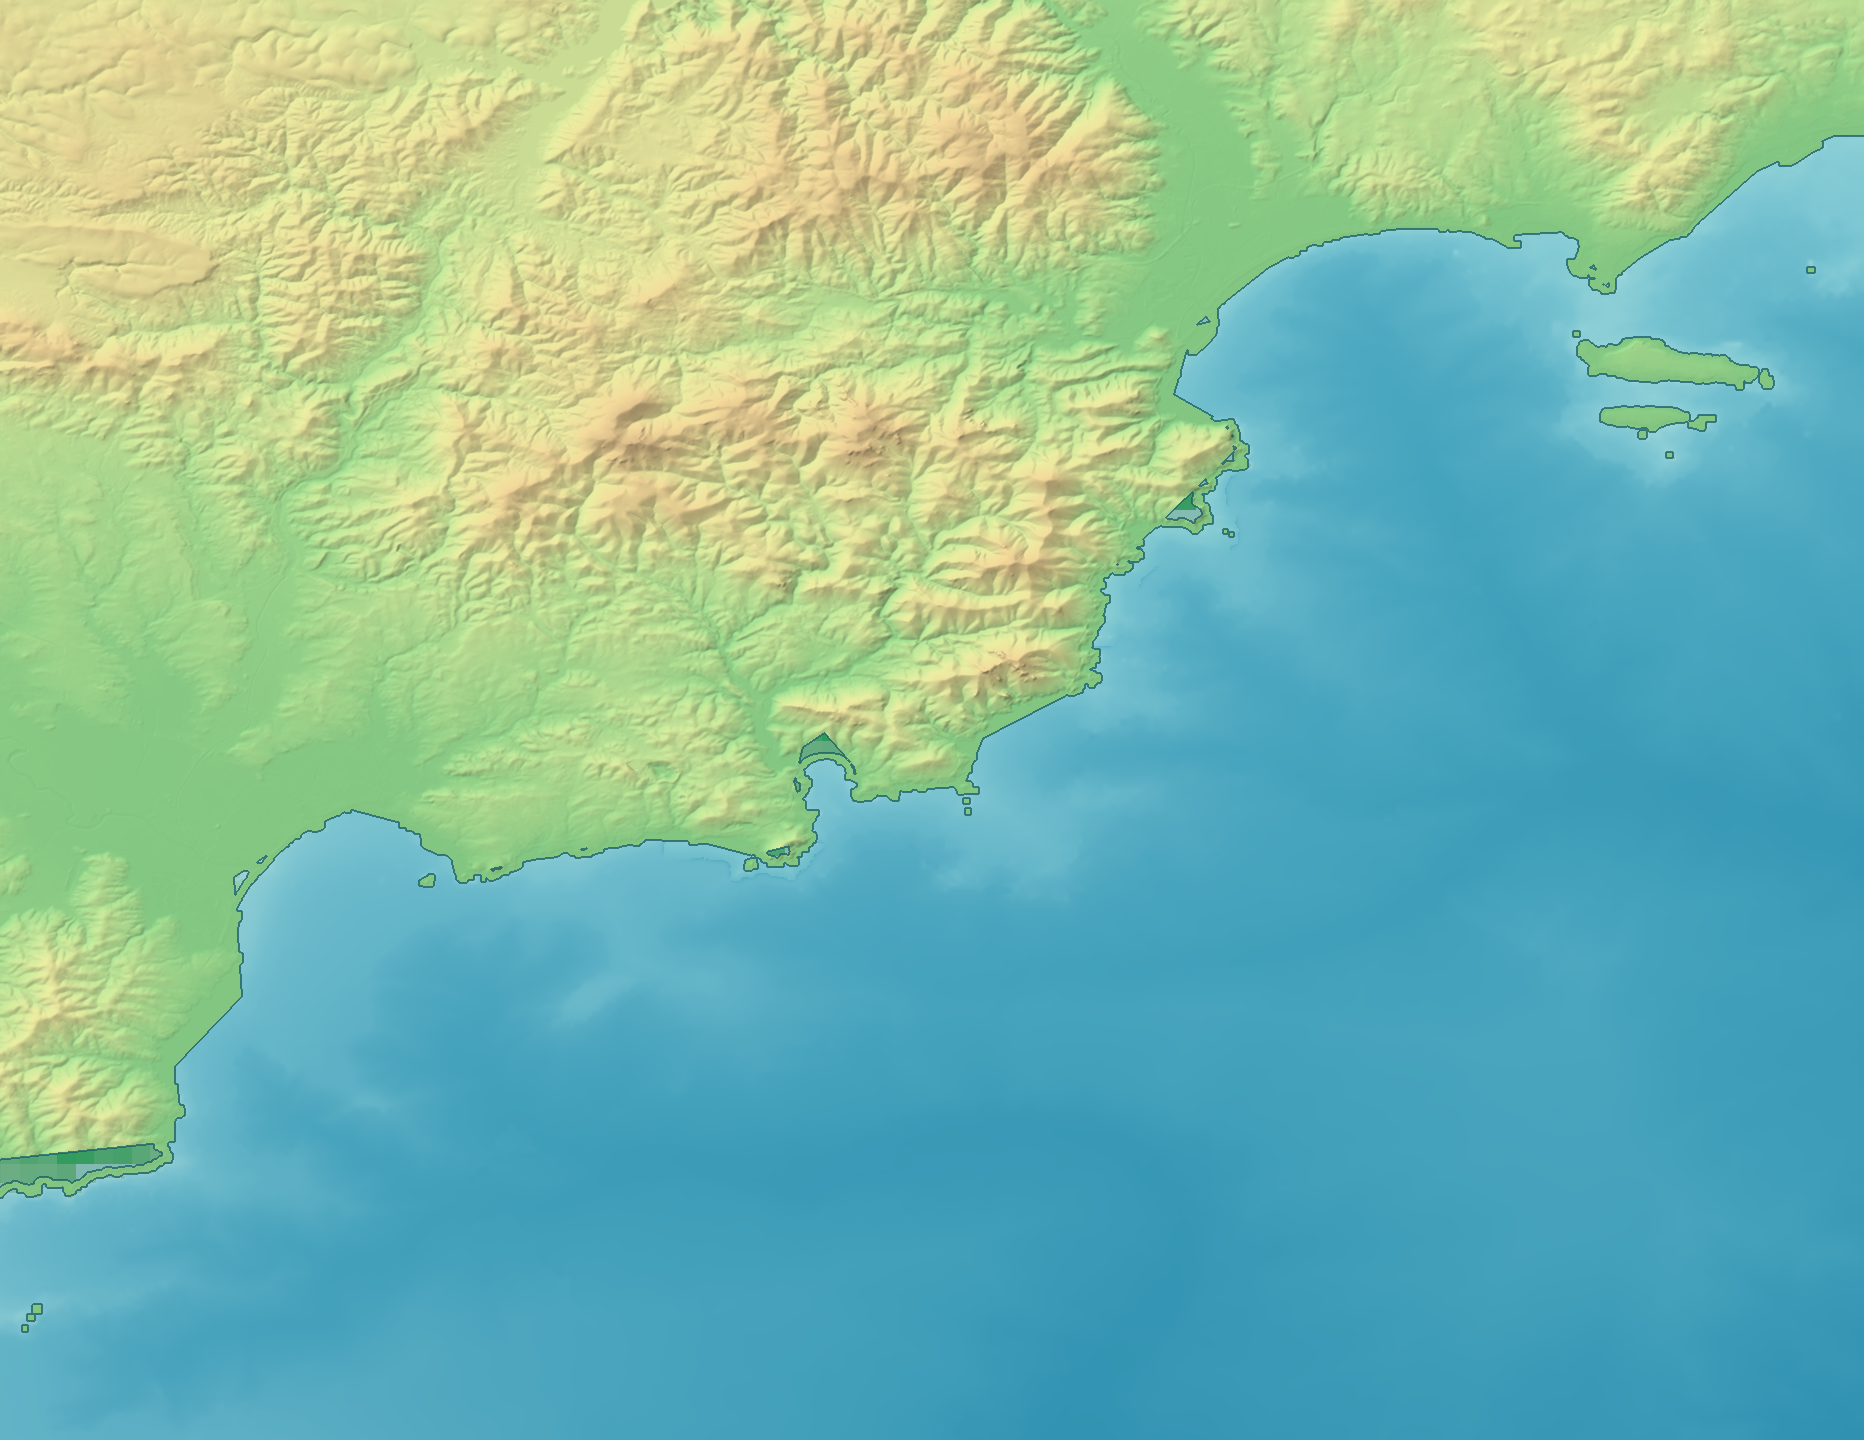
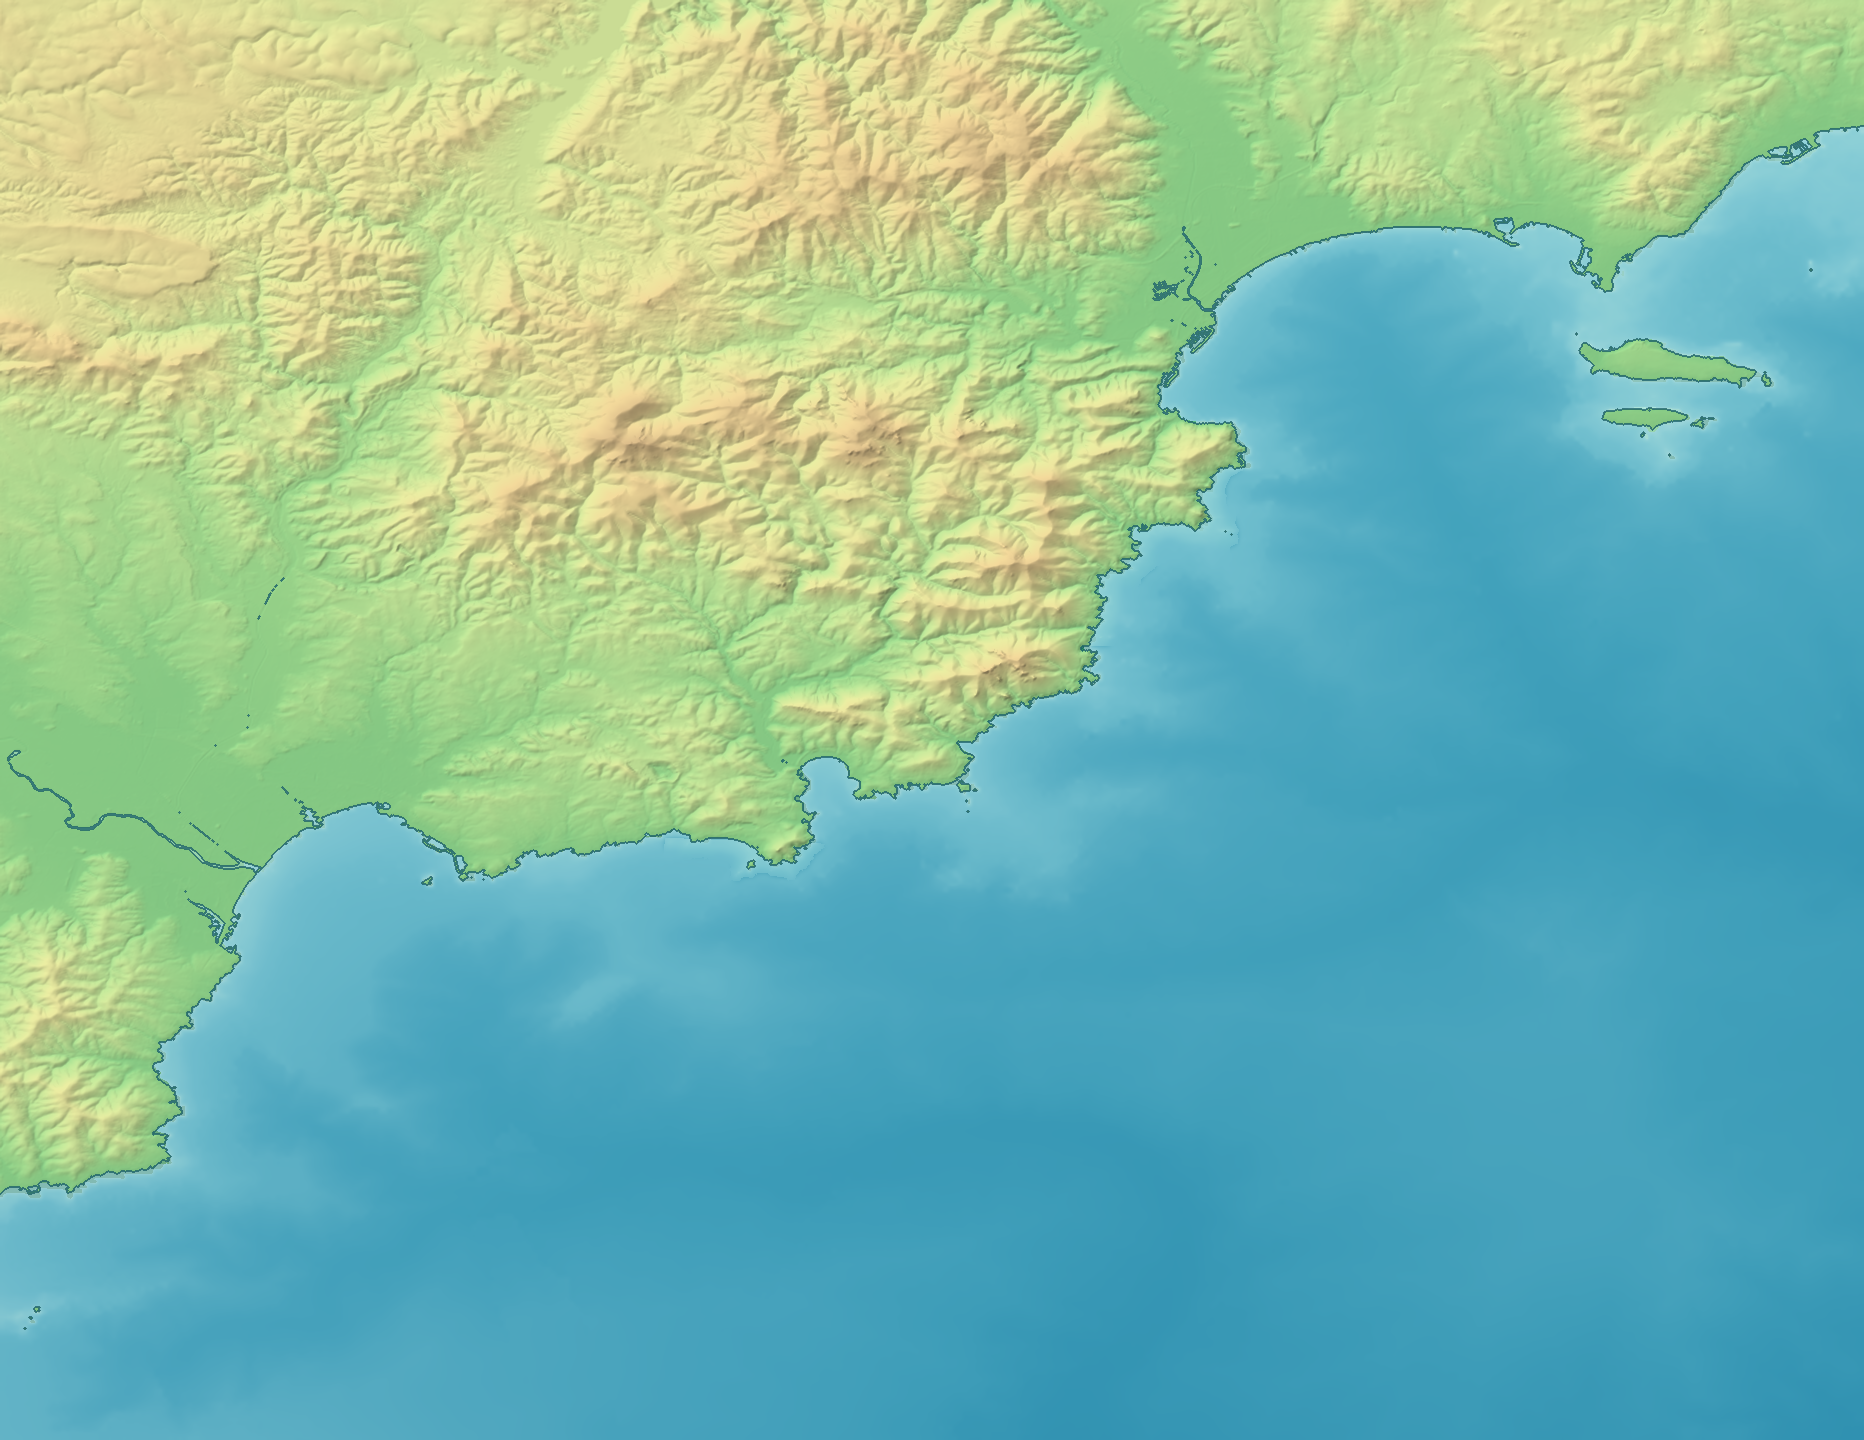
Adopt polygonal Var Est coastline
Regenerate the regional relief from official Shom–IGN land polygons, record the updated provenance and full-resolution QA, and keep all five draft sites unpublished.

diff --git a/regions/var-est/QA.md b/regions/var-est/QA.md
@@ -52,17 +52,24 @@ site assets if the sites are to progress toward publication.
 ## Regional relief and marker QA
 
 - `build_regional_relief.py var-est` completed with the approved project
-  runtime and without `--refresh`, reusing the official-source caches.
-- The canonical and Web PNGs both decode at 1864 × 1440, contain 1,695,414
+  runtime and without `--refresh`. Existing official-source caches were reused;
+  the previously absent Shom–IGN polygon WFS response was fetched once and
+  cached.
+- The canonical and Web PNGs both decode at 1864 × 1440, contain 1,731,260
   bytes, and match SHA-256
[2 lines of base64/hex data omitted]
   The same digest and bounds are recorded in `region.json` and the Web map
   manifest.
 - The full-resolution image was inspected directly. The coastline is
   continuous, the land/ocean classification is plausible, and no tile seam,
-  isolated flood component, or cross-coast relief bleed is visible. The
-  Shom–IGN LIMTM mask retained 2,418 segments and 249,181 vertices; its land
-  fraction was 0.444, within 0.008 of the Natural Earth topology guard.
+  isolated component, or cross-coast relief bleed is visible. The official
+  Shom–IGN LIMTM polygon mask contains 1,079 features and 844,310 vertices;
+  its land fraction is 0.437, within 0.001 of the Natural Earth sanity guard.
+- Compared with the previous line-flood mask, 48,678 pixels change, primarily
+  along the coastline. Direct before/after inspection confirms that the large
+  artificial closures at Trayas and in regional bays are removed, the detailed
+  Dramont coast remains continuous, and the Îles de Lérins and smaller islets
+  retain crisp, complete land and shoreline geometry without ghosting.
 - The regional bounds are west 6.67894138, south 43.28603339, east
   7.09494138, north 43.59803339. Every configured site coordinate lies inside
   them:
